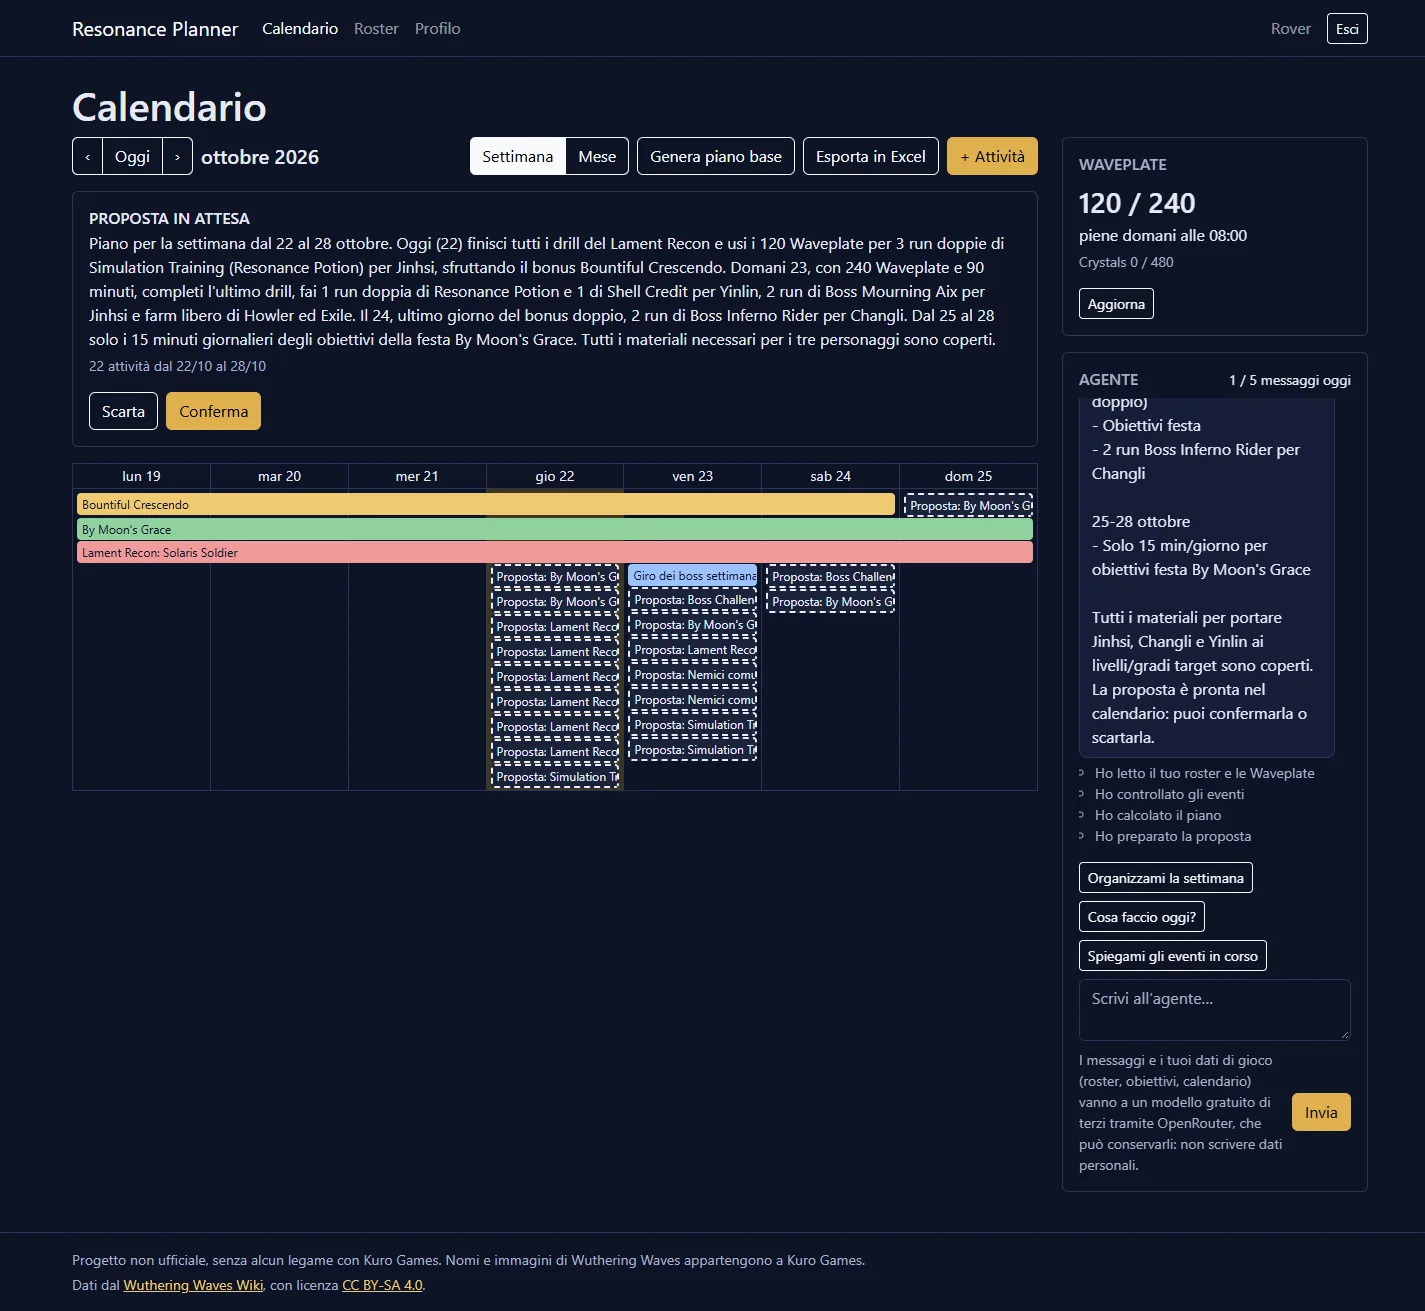
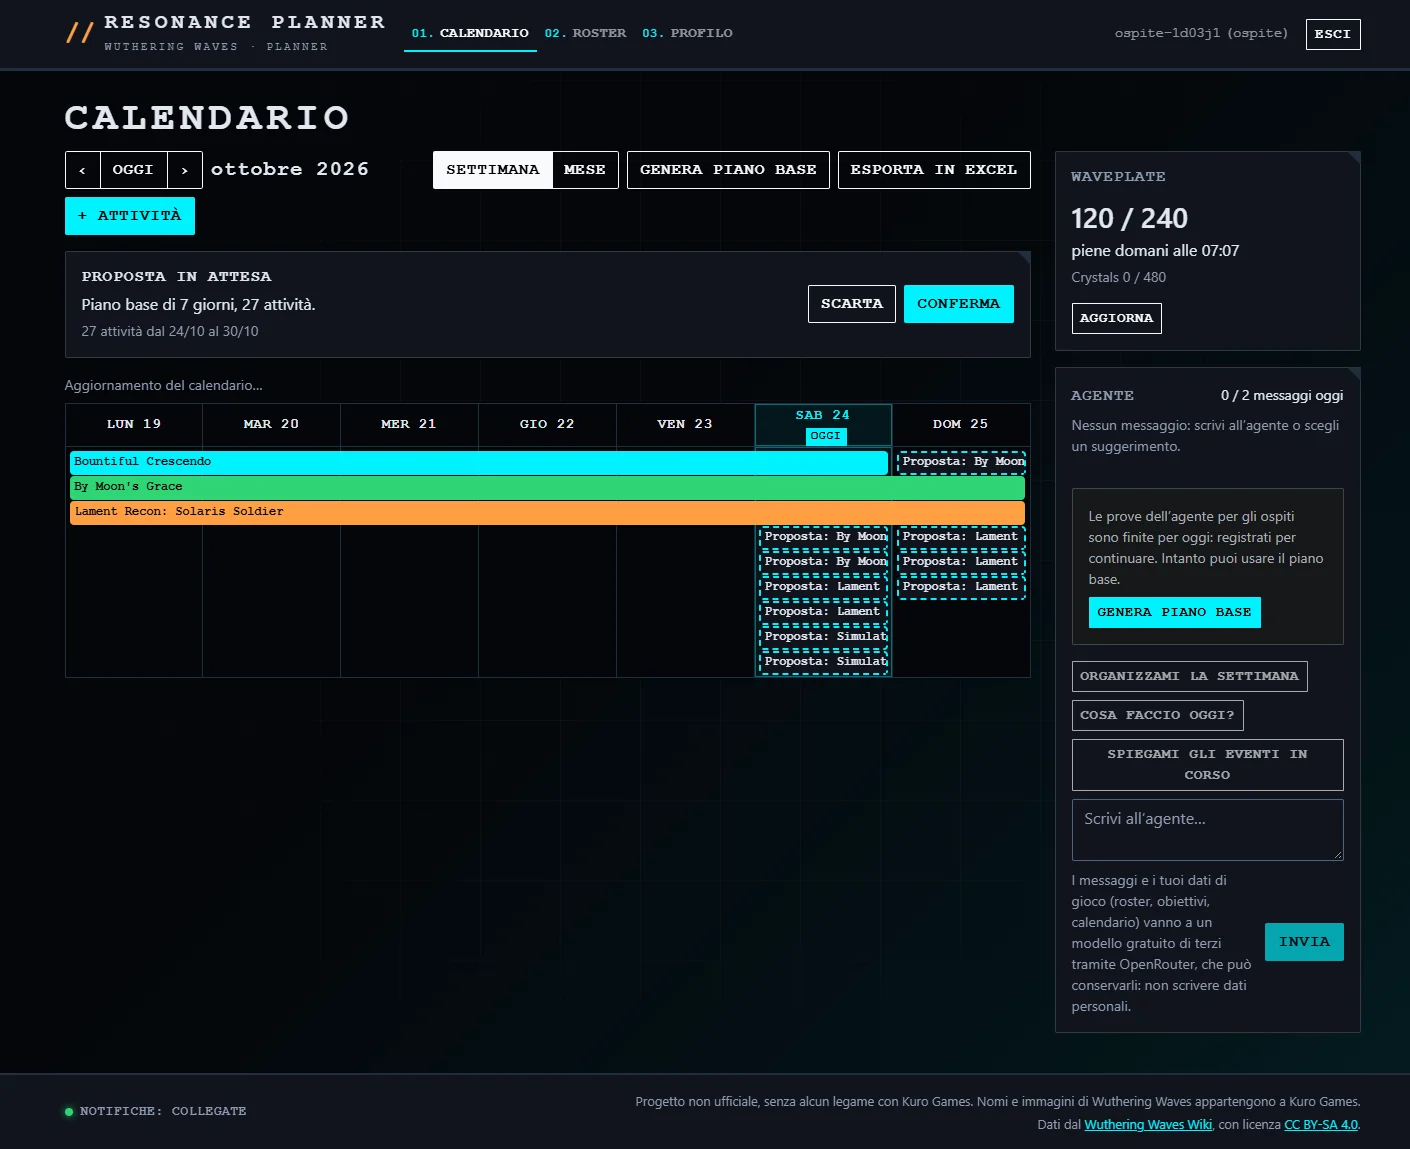
docs: update README screenshots with the new look (#66)

diff --git a/README.md b/README.md
@@ -6,7 +6,7 @@ Progetto capstone del Master Full-Stack AI Developer di Epicode. "Resonance Plan
 
 > **Stato:** è online la **versione finale** (tag `v3.0.0`, 24/10/2026): calendario, roster e inventario, piano base, proposte da confermare e agente IA con la chat, più tre extra: export del piano in Excel, accesso ospite "Prova la demo" e notifiche in tempo reale. La checklist finale sul sito online è superata in tutti i 19 punti ([`docs/rilascio-v3.md`](docs/rilascio-v3.md)).
 
-![Il calendario su computer: eventi della settimana, una proposta dell'agente con le attività tratteggiate e la chat a destra](docs/screenshot/calendario.webp)
+![Il calendario su computer: eventi della settimana, una proposta con le attività tratteggiate e la chat dell'agente a destra](docs/screenshot/calendario.webp)
 
 ## Demo online
 
